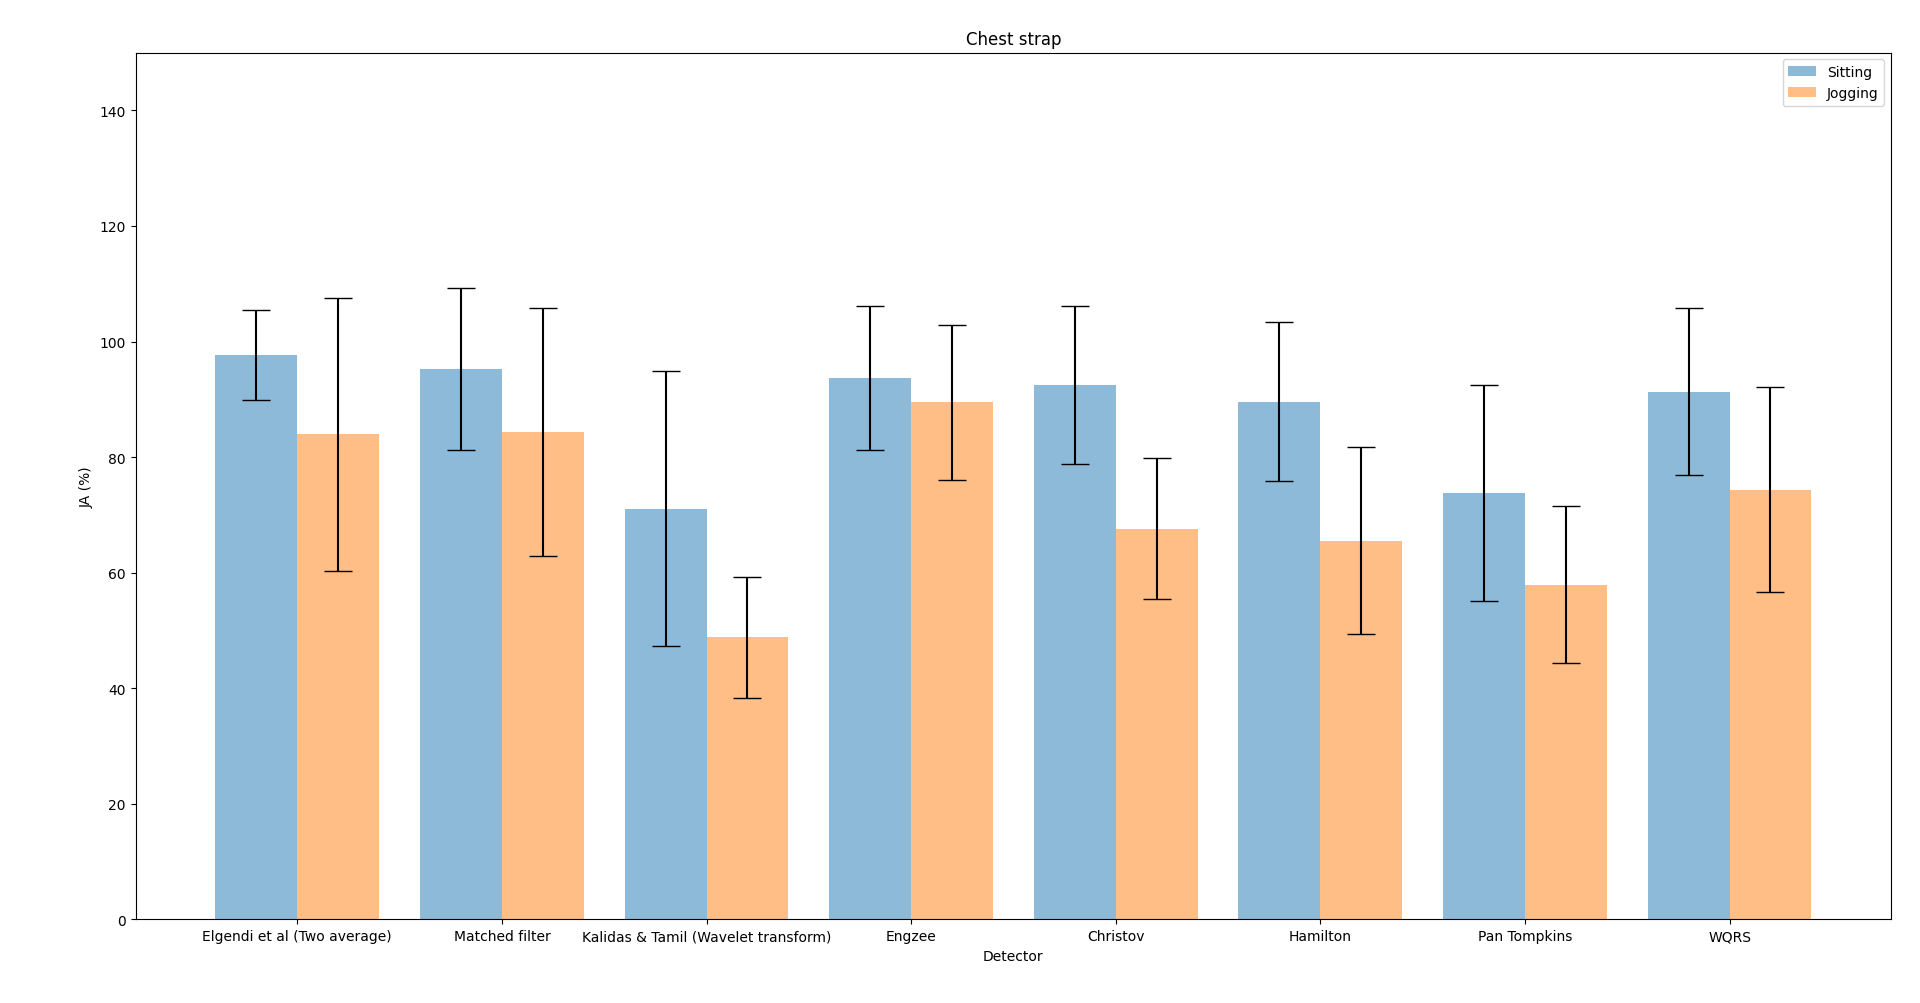
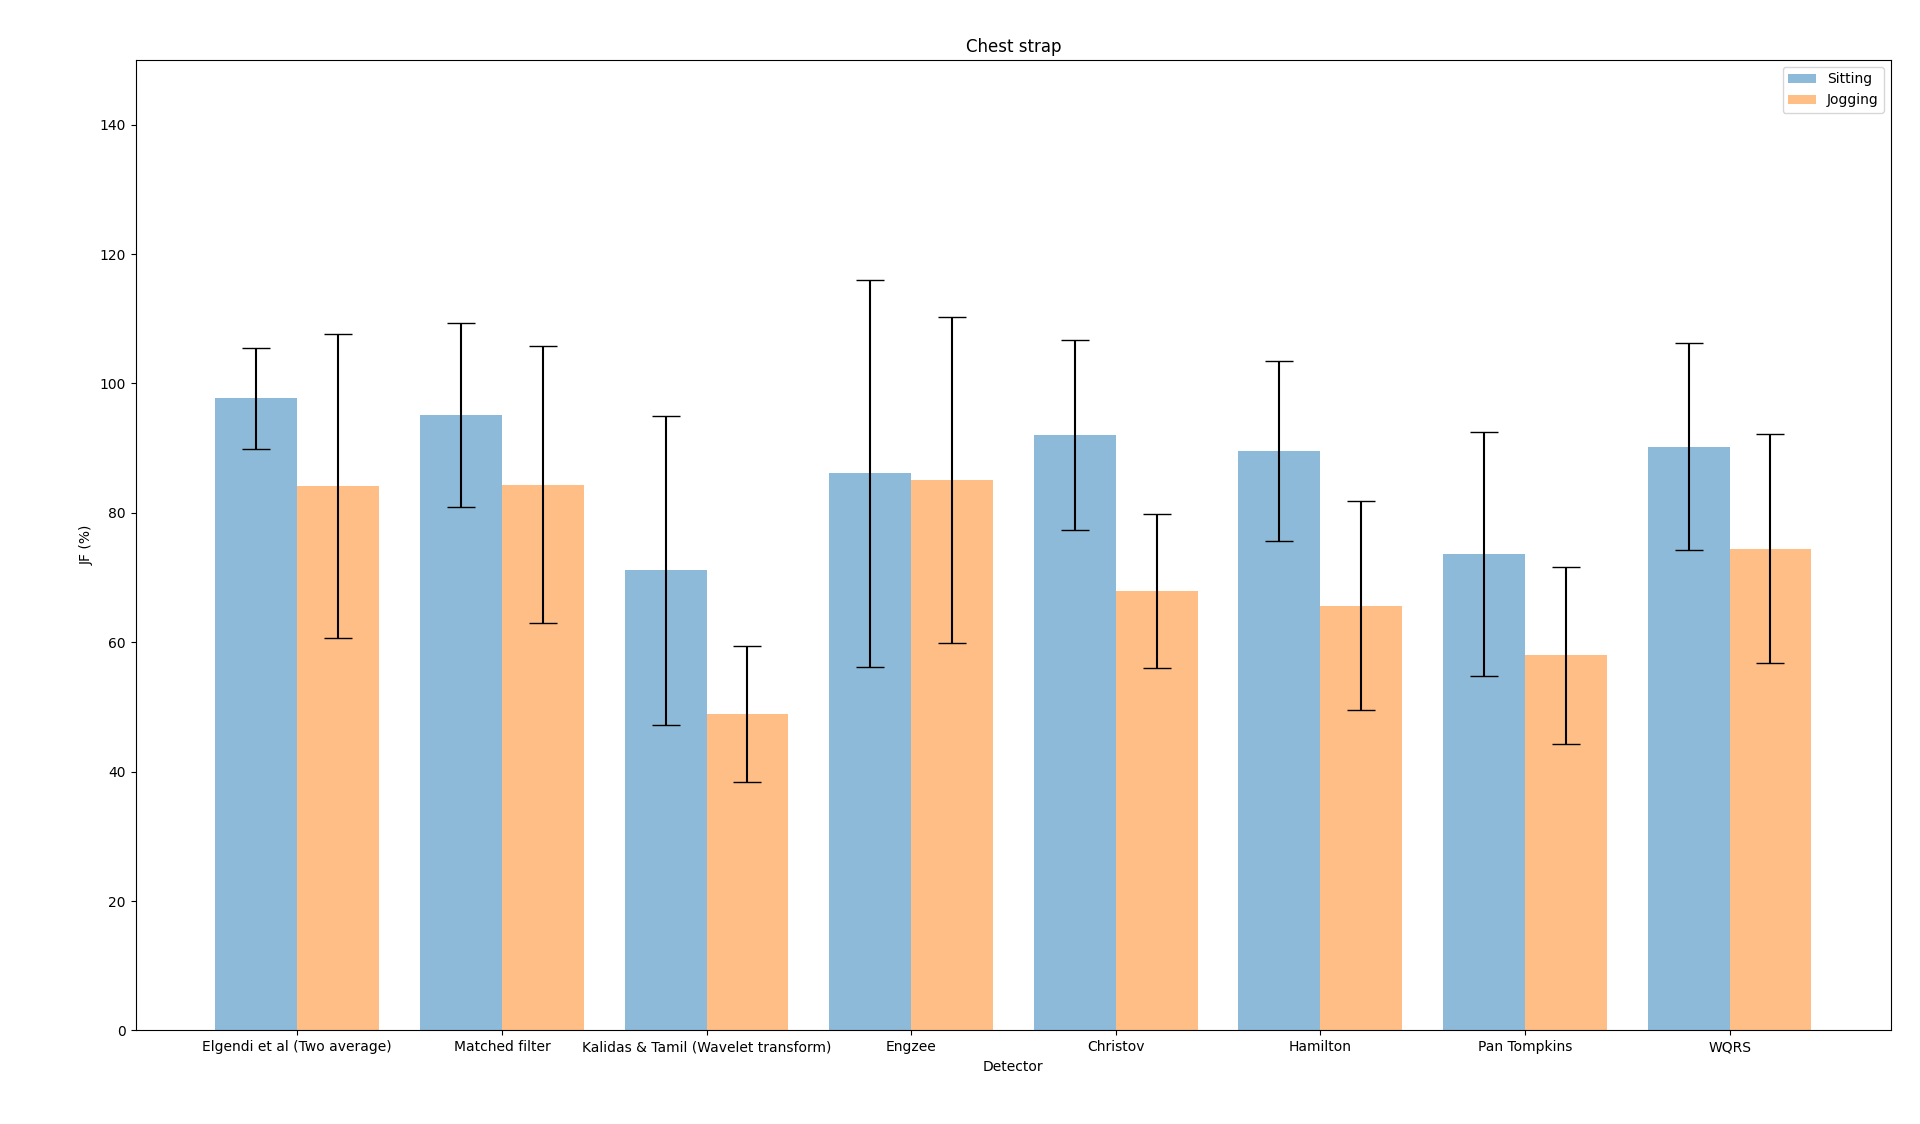
Updated the plots

diff --git a/jf_stats_activities.py b/jf_stats_activities.py
@@ -18,7 +18,7 @@ resultsdir = "results"
 
 alpha = 0.05
 
-minja = 90 # %
+minjf = 90 # %
 
 def get_ja(detector_name, leads, experiment):
     f = open(resultsdir+"/jf_"+detector_name+".json","r")
@@ -60,7 +60,7 @@ def calc_stats(det,leads):
     print("\\\\")
     for e in experiment_names:
         r1 = get_ja(det, leads, e)
-        t,p = stats.ttest_1samp(r1,minja,alternative='greater')
+        t,p = stats.ttest_1samp(r1,minjf,alternative='greater')
         print_stat(p)
     print()
 
@@ -92,15 +92,23 @@ dets.append(det_names[0])
 dets.append(det_names[7])
 dets.append(det_names[6])
 
-print("Dets:",dets)
+helpstr = "Valid arguments are 'einth' for Einthoven or 'cs' for Chest Strap."
 
 leads = einth
 if len(sys.argv) > 1:
-    leads = cs
+    if ('einth' in sys.argv[1]):
+        leads = einth
+    elif ('cs' in sys.argv[1]):
+        leads = cs
+    else:
+        print(helpstr)
+        print("Exiting...")
+        quit()
 else:
-    print("You can switch to chest strap by adding anything as an argument for example: '{} cs'.".format(sys.argv[0]))
+    print(helpstr)
 
 print("Leads:",leads)
+print("Dets:",dets)
 
 avg = []
 std = []
@@ -110,7 +118,7 @@ for d in dets:
     std.append(s)
 
 multi_plot(avg,std,
-        'JA (%)', dets, leads)
+        'JF (%)', dets, leads)
 
 
 for d in dets:

diff --git a/README.md b/README.md
@@ -44,6 +44,8 @@ pip install ecg_gudb_database
 
 ### jf_analysis.py
 
+Module which performs the JF analysis. It has no main program.
+
 JF analysis of interval variation and F1 (FP, FN, TP):
 
 ```
@@ -75,15 +77,23 @@ The code evaluates all ECG detectors with all subjects, all leads, and all
 experiments. It outputs separate json files for every detector and stores
 them in the `results` directory.
 
+Only needs to be run once and then can be analysed by the script below.
+
 ### jf_stats_plots.py
 
-The overall JA Benchmark values for Einthoven
+The overall JF Benchmark values for Einthoven
 II and chest strap results are shown together on a bar graph for
 comparison for sitting and jogging.
 
-![alt tag](ja_einth.png)
-![alt tag](ja_chest.png)
-![alt tag](ja_det.png)
+![alt tag](jf_einth.png)
+![alt tag](jf_chest.png)
+
+### jf_stats_activities.py
+
+This analysis focusses how different noise levels affect performance from
+sitting to jogging.
+
+![alt tag](jf_activities.png)
 
 # Traditional sensitivity analysis
 
